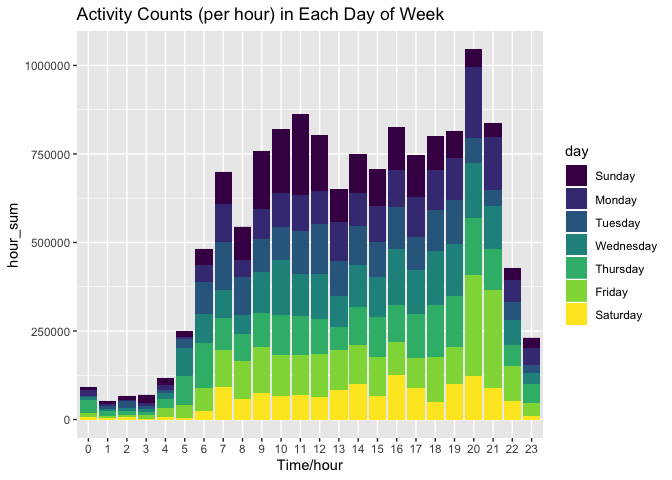
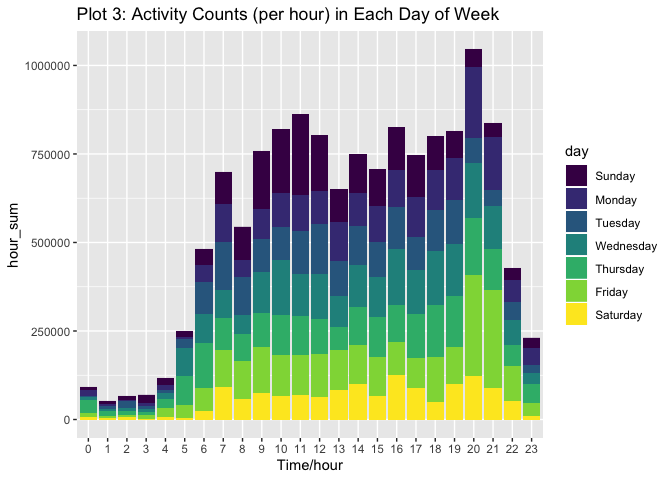
version 3: 1.  order all the tables and plots within problem 2. problem 1 table 2: round hours to 2 digits number

Changed region(s): [[0.0938, 0.0, 0.75, 0.0625]]

diff --git a/p8105_hw3_ym2771.md b/p8105_hw3_ym2771.md
@@ -85,7 +85,7 @@ g <-
         axis.title.y = element_text(color="#993333", size=10, face="bold")
         )+
     geom_text(vjust = 0,color = "darkblue") + 
-    ggtitle( "The Number of Items Ordered in Each Aisle")+ 
+    ggtitle( "Plot1 The Number of Items Ordered in Each Aisle")+ 
     xlab("Aisle Names")+
     ylab ("Count")
 g   
@@ -96,7 +96,7 @@ g
 ### comments:
 
 In dataset instacart, there are 134 aisles in total. There are 39 aisles
-bigger than 10,000 in total and the top5 most popular aisle is fresh
+bigger than 10,000 in total and the top5 most popular aisle are fresh
 vegetables, fresh fruits, packaged vegetables fruits, yogurt, packaged
 cheese, reflecting the most urgent demands of online-shopping customers.
 As shown in the plot, fresh vegetables, fresh fruits are extremely
@@ -114,7 +114,7 @@ instacart_3aisle_table <-
     filter(aisle %in% c( "baking ingredients", "dog food care","packaged vegetables fruits")) %>%
     filter(rank <= 3) %>% 
     arrange(aisle, rank)
-knitr::kable(instacart_3aisle_table)
+knitr::kable(instacart_3aisle_table, caption = "Table 1: The most popular products in 3 aisles: baking ingredients, dog food care,packaged vegetables fruits")
 ```
 
 | aisle                      | product\_name                                 | count | rank |
@@ -128,6 +128,9 @@ knitr::kable(instacart_3aisle_table)
 | packaged vegetables fruits | Organic Baby Spinach                          |  9784 |    1 |
 | packaged vegetables fruits | Organic Raspberries                           |  5546 |    2 |
 | packaged vegetables fruits | Organic Blueberries                           |  4966 |    3 |
+
+Table 1: The most popular products in 3 aisles: baking ingredients, dog
+food care,packaged vegetables fruits
 
 ### comments:
 
@@ -154,18 +157,21 @@ purchase_hour_of_weekday <-
     mutate(order_dow = weekdays[order_dow+1]) %>% 
     filter(product_name %in% c("Pink Lady Apples","Coffee Ice Cream")) %>% 
     group_by(product_name,order_dow) %>% 
-    summarise(mean_how = mean(order_hour_of_day)) %>% 
-    pivot_wider(names_from = order_dow, values_from = mean_how) %>% 
+    summarise(mean_how = round(mean(order_hour_of_day),2)) %>% 
+    pivot_wider(names_from = order_dow, values_from = mean_how) %>%
     select(product_name,weekdays)
-knitr::kable(purchase_hour_of_weekday)
+knitr::kable(purchase_hour_of_weekday, caption = "Table 2: mean hour of the day at which Pink Lady Apples and Coffee Ice Cream are ordered")
 ```
 
-| product\_name    |      Sun |      Mon |      Tue |      Wed |      Thu |      Fri |      Sat |
-| :--------------- | -------: | -------: | -------: | -------: | -------: | -------: | -------: |
-| Coffee Ice Cream | 13.77419 | 14.31579 | 15.38095 | 15.31818 | 15.21739 | 12.26316 | 13.83333 |
-| Pink Lady Apples | 13.44118 | 11.36000 | 11.70213 | 14.25000 | 11.55172 | 12.78431 | 11.93750 |
+| product\_name    |   Sun |   Mon |   Tue |   Wed |   Thu |   Fri |   Sat |
+| :--------------- | ----: | ----: | ----: | ----: | ----: | ----: | ----: |
+| Coffee Ice Cream | 13.77 | 14.32 | 15.38 | 15.32 | 15.22 | 12.26 | 13.83 |
+| Pink Lady Apples | 13.44 | 11.36 | 11.70 | 14.25 | 11.55 | 12.78 | 11.94 |
 
-  - comments:
+Table 2: mean hour of the day at which Pink Lady Apples and Coffee Ice
+Cream are ordered
+
+## comments:
 
 This mean purchase hour of this two products are distributed near
 mid-day. As for Coffee Ice Cream, there is a clear trend that purchase
@@ -209,7 +215,7 @@ states_with_7m <-
     filter(count >= 7, year %in% c(2010,2002)) %>% 
     pivot_wider(names_from = year, values_from = count )
 
-knitr::kable(states_with_7m)
+knitr::kable(states_with_7m, caption = "Table 1: States were observed at 7 or more locations in 2002 and 2010")
 ```
 
 | state | 2002 | 2010 |
@@ -230,6 +236,8 @@ knitr::kable(states_with_7m)
 | TX    |   NA |   16 |
 | WA    |   NA |   10 |
 
+Table 1: States were observed at 7 or more locations in 2002 and 2010
+
 ### Comment
 
 In 2002, there are overall 6 states having 7 or more locations, while in
@@ -247,7 +255,8 @@ data_value_plot_data <-
 g <- 
     ggplot(data = data_value_plot_data,aes(x = year, y = mean_data_value, color = state)) +
     geom_line() + 
-    scale_color_viridis(discrete = TRUE,option = "B")
+    scale_color_viridis(discrete = TRUE,option = "B")+
+    labs(title = "Plot 1: data_value in years among locations", y = "Mean data_value")
 g
 ```
 
@@ -274,7 +283,7 @@ g <-
     ggplot(dv_resp_plot_data, aes(x = data_value,fill = response)) +
     facet_grid(rows = vars(year))+
     geom_density( color = "darkblue",alpha = 0.5)+
-    labs(title = "Data_value distribution for responses in NY State")
+    labs(title = "Plot 2: Data_value distribution for responses in NY State")
 g
 ```
 
@@ -325,10 +334,7 @@ miute of a 24-hour day in 5 weeks, with 50400 rows(minutes) and 7
 columns. The variables in the dataset are week, day\_order, day,
 week\_day\_vs\_weekend, day\_id, activity, activity\_count.
 
-Traditional analyses of accelerometer data focus on the total activity
-over the day. Using your tidied dataset, aggregate accross minutes to
-create a total activity variable for each day, and create a table
-showing these totals. Are any trends apparent?
+## The total activity over the day
 
 ``` r
 accelerometer_chf_total <- 
@@ -339,7 +345,7 @@ accelerometer_chf_total <-
 acc_total_table <- accelerometer_chf_total %>%
     select(-day_order) %>% 
     pivot_wider(names_from = day, values_from = sum_activity)
-knitr::kable(acc_total_table, caption = "Total Activity for Each Day")
+knitr::kable(acc_total_table, caption = "Table 1: Total Activity for Each Day")
 ```
 
 | week | Sunday |    Monday |  Tuesday | Wednesday | Thursday |   Friday | Saturday |
@@ -350,14 +356,14 @@ knitr::kable(acc_total_table, caption = "Total Activity for Each Day")
 | 4    | 260617 | 409450.00 | 319568.0 |    434460 | 340291.0 | 154049.0 |     1440 |
 | 5    | 138421 | 389080.00 | 367824.0 |    445366 | 549658.0 | 620860.0 |     1440 |
 
-Total Activity for Each Day
+Table 1: Total Activity for Each Day
 
 ``` r
 g <- 
     ggplot(data = accelerometer_chf_total, aes(x = day_order, y = sum_activity, color = as.numeric(week))) +
     geom_line() +
     scale_x_discrete(name = "day order", limits = 1:35) +
-    labs(title = "Total accelerometer activity of a day during 5 weeks", y = "Activity counts per day", color = "week") +
+    labs(title = "Plot 1: Total accelerometer activity of a day during 5 weeks", y = "Activity counts per day", color = "week") +
     scale_color_viridis()
 g
 ```
@@ -383,7 +389,7 @@ accelerometer_chf %>%
     ggplot(aes(x = activity, y = activity_count, color = day)) +
     geom_line(alpha = 0.4) +
     scale_x_discrete(name = "Time/min", breaks = seq(1,1440,120))+
-    labs(title = "Activity Counts (per minute) in Each Day of Week")+
+    labs(title = "Plot 2: Activity Counts (per minute) in Each Day of Week")+
     scale_fill_brewer(palette="Set2")
 ```
 
@@ -398,7 +404,7 @@ accelerometer_chf %>%
     ggplot(aes(x = hour, y =hour_sum)) +
     geom_bar(stat = "identity",aes(fill = day)) +
     scale_x_discrete(name = "Time/hour",)+
-    labs(title = "Activity Counts (per hour) in Each Day of Week")+
+    labs(title = "Plot 3: Activity Counts (per hour) in Each Day of Week")+
     scale_color_viridis(discrete = T)
 ```
 
@@ -417,5 +423,5 @@ indicates the mid-day breaks; during afternoon(2pm-5pm), the activity is
 growing again, but not as high as the morning peak; The highest activity
 counts falls in night(8pm-9pm), which may indicate that the object has
 the most Vigorous Activities at early night. There are also day to day
-variance among weekdays, as shown in minute plot, in sunday, the
-activity peak is at around 10am.
+variance among weekdays, as shown in plot 2, in sunday, the activity
+peak is at around 10am.
